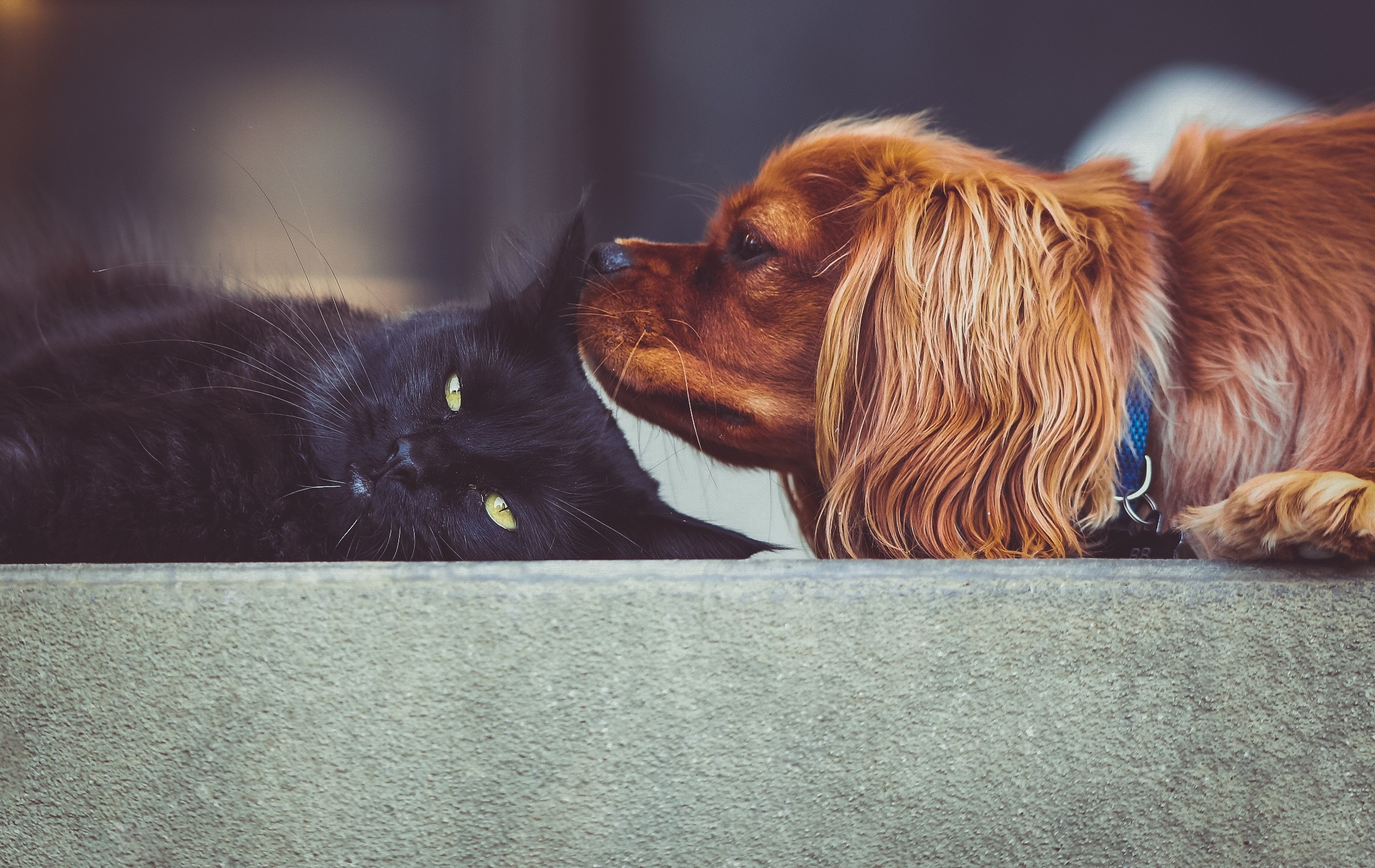
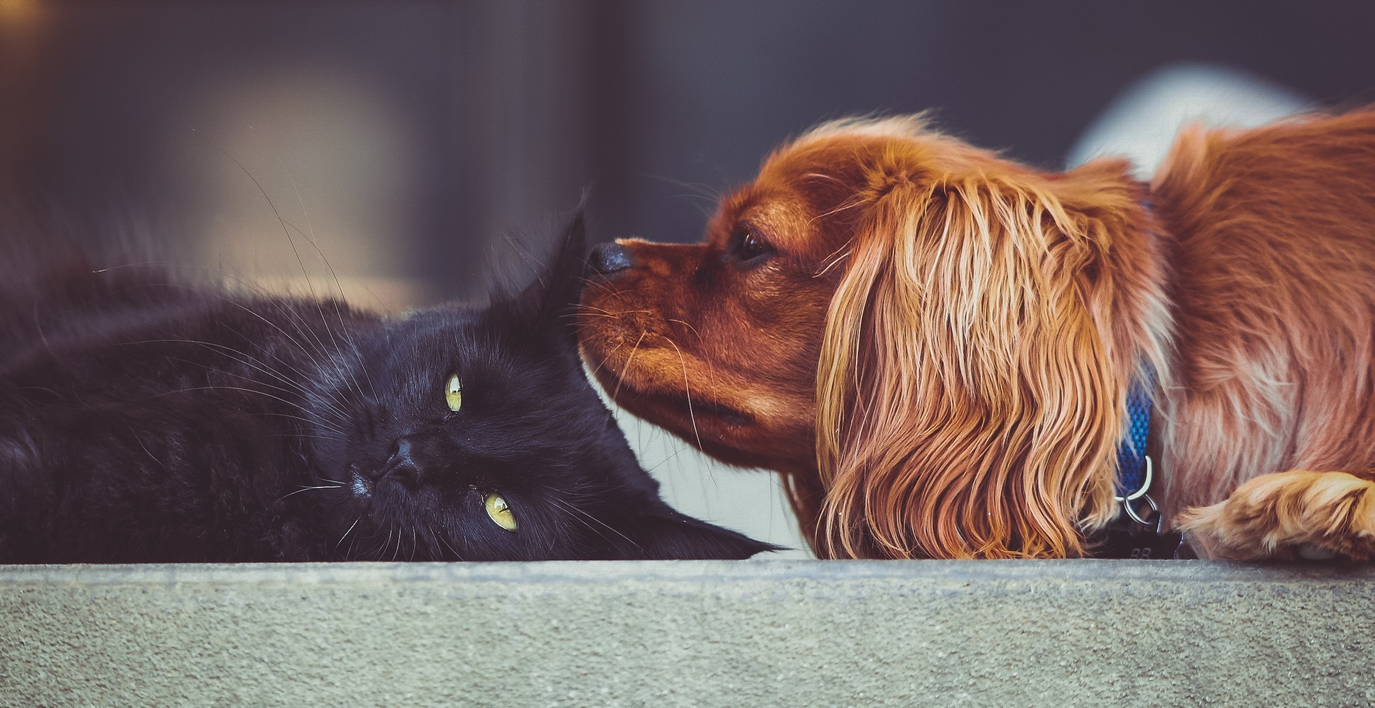
cropped index image

diff --git a/views/css/style.css b/views/css/style.css
@@ -10,7 +10,7 @@
 
 .catdog {
   width: 100%;
-  height: 100%;
+  max-height: 551px;
   position: absolute;
 }
 
@@ -202,7 +202,7 @@ a {
 .buttonPosition
 {
   text-align: center;
-  margin-top: 400px;
+  margin-top: 461px;
 }
 
 span1 {
